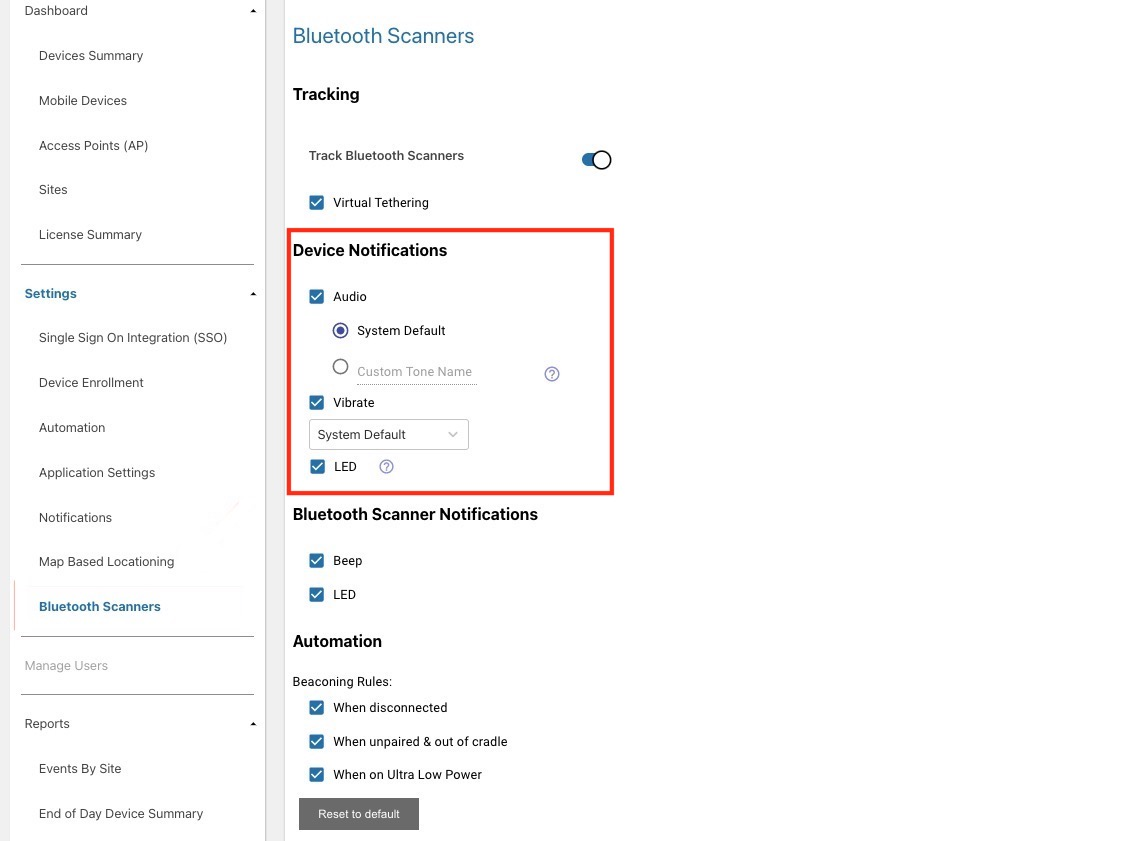
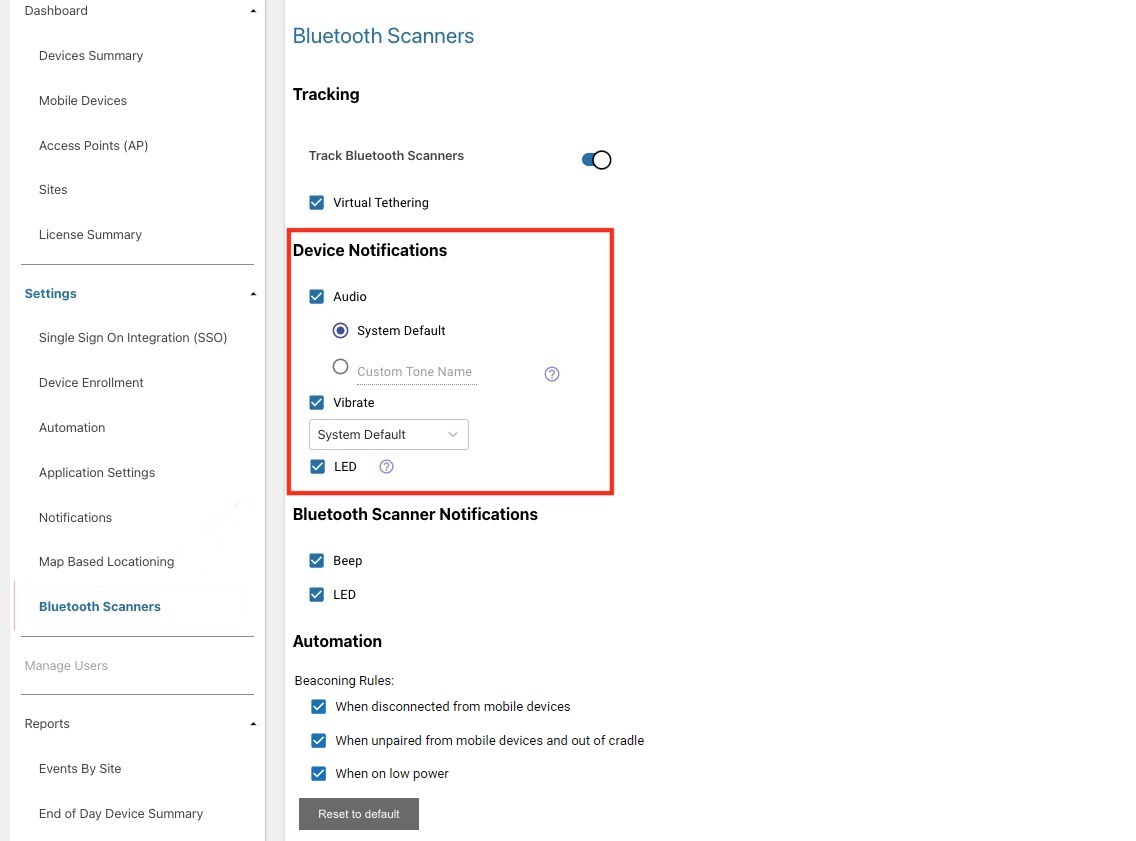
[DLM-28691] Device Tracker 6.0 updates, per eng (fill-in for Cathy)

Changed region(s): [[0.2465, 0.8038, 0.5546, 0.9275]]

diff --git a/devicetracker/6-0/guide/config/index.html b/devicetracker/6-0/guide/config/index.html
@@ -2135,11 +2135,11 @@ sendBroadcast(signOutIntent);
 <p>Select one or more of the Beaconing Rules:</p>
 
 <ul>
-<li><strong>When disconnected -</strong> The Bluetooth scanner immediately begins broadcasting its presence when it is out of Bluetooth range of the paired device. This allows the device to be found even when disconnected from the host mobile computer. Other mobile computer devices can also locate the Bluetooth scanner using the proximity meter.</li>
+<li><strong>When disconnected from mobile devices-</strong> The Bluetooth scanner immediately begins broadcasting its presence when it is out of Bluetooth range of the paired device. This allows the device to be found even when disconnected from the host mobile computer. Other mobile computer devices can also locate the Bluetooth scanner using the proximity meter.</li>
 
-<li><strong>When unpaired and out of cradle -</strong> When a Bluetooth scanner is placed into a charging cradle, it becomes automatically unpaired from its associated device and removed from the "My Bluetooth Scanner" list. As a result, the user may forget to manually re-pair the Bluetooth scanner after undocking it from the cradle. To prevent this from occurring, enable this option, which causes the Bluetooth scanner to immediately begin broadcasting its presence when undocked from the cradle while unpaired.  </li>
+<li><strong>When unpaired from mobile devices and out of cradle -</strong> When a Bluetooth scanner is placed into a charging cradle, it automatically unpairs from its associated device and is removed from the "My Bluetooth Scanner" list. As a result, the user might forget to manually re-pair the Bluetooth scanner after undocking it from the cradle. To prevent this from occurring, enable this option, which causes the Bluetooth scanner to immediately begin broadcasting its presence when undocked from the cradle while unpaired.  </li>
 
-<li><strong>When on Ultra Power -</strong> The Bluetooth scanner immediately begins broadcasting its presence when the battery level is lower than 30%. This option is enabled by default. </li>
+<li><strong>When on low power -</strong> The Bluetooth scanner immediately begins broadcasting its presence when the battery level falls below 30%. This option is enabled by default. </li>
 </ul>
 
 <p><img alt="image" style="height:500px" src="btscanner-automation.jpg"></p>
